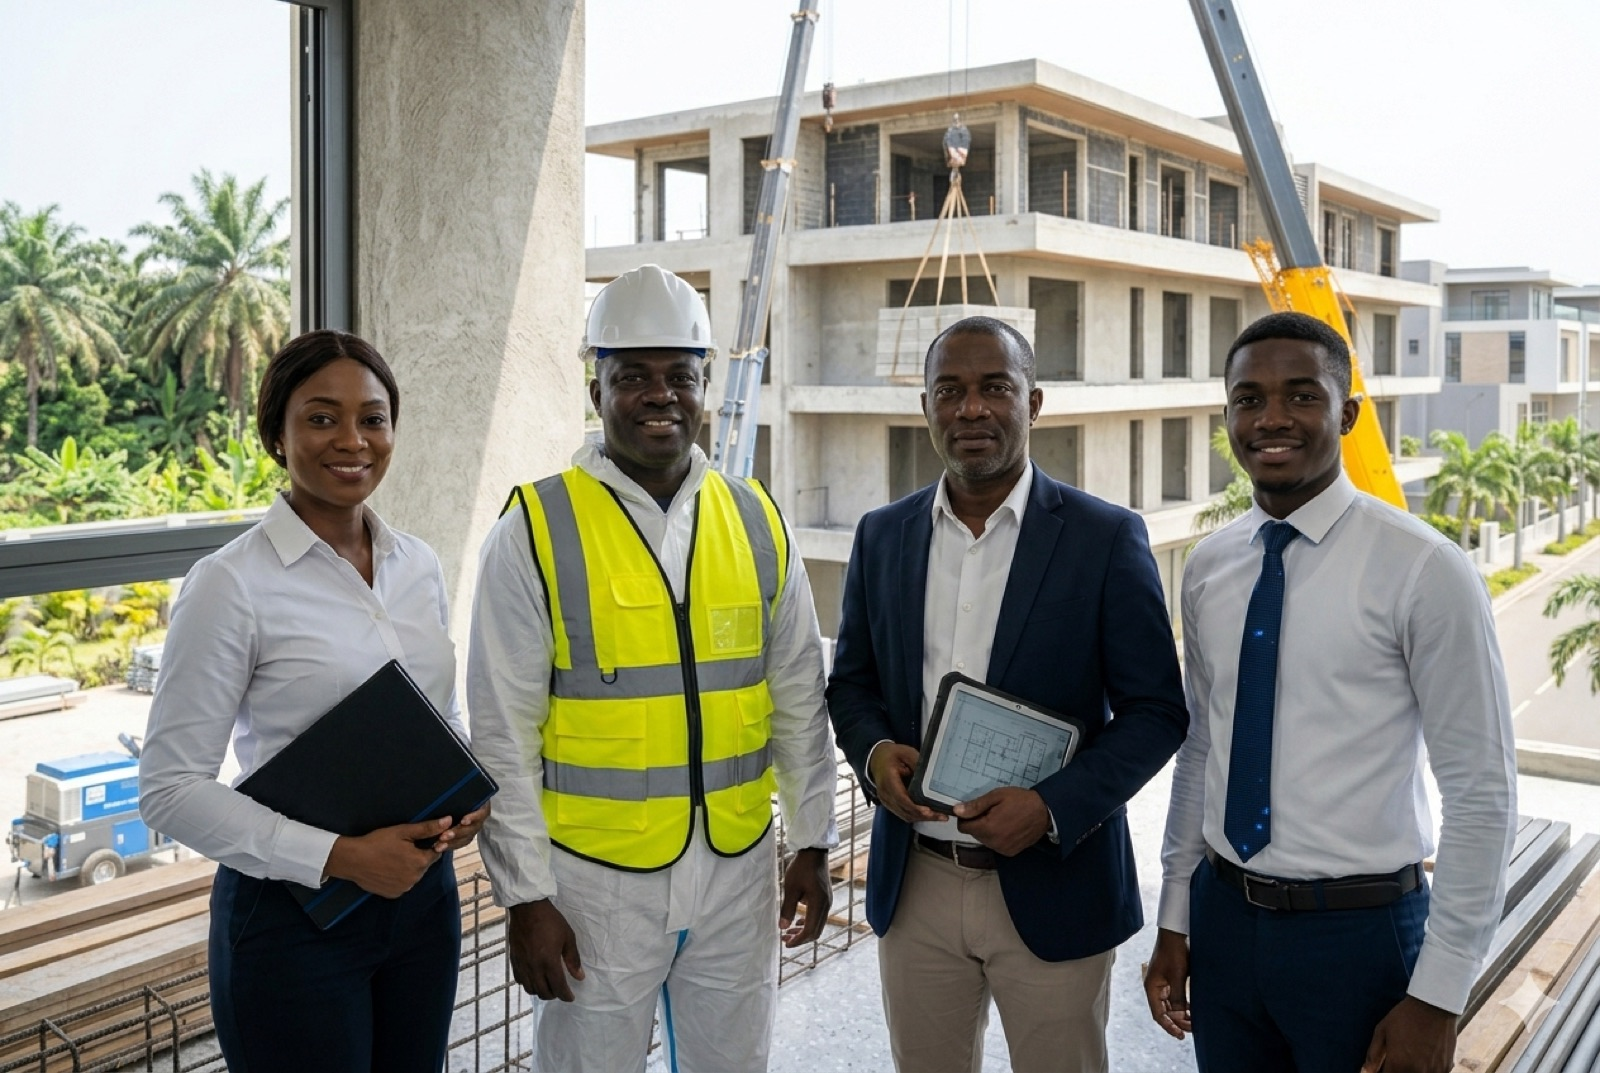
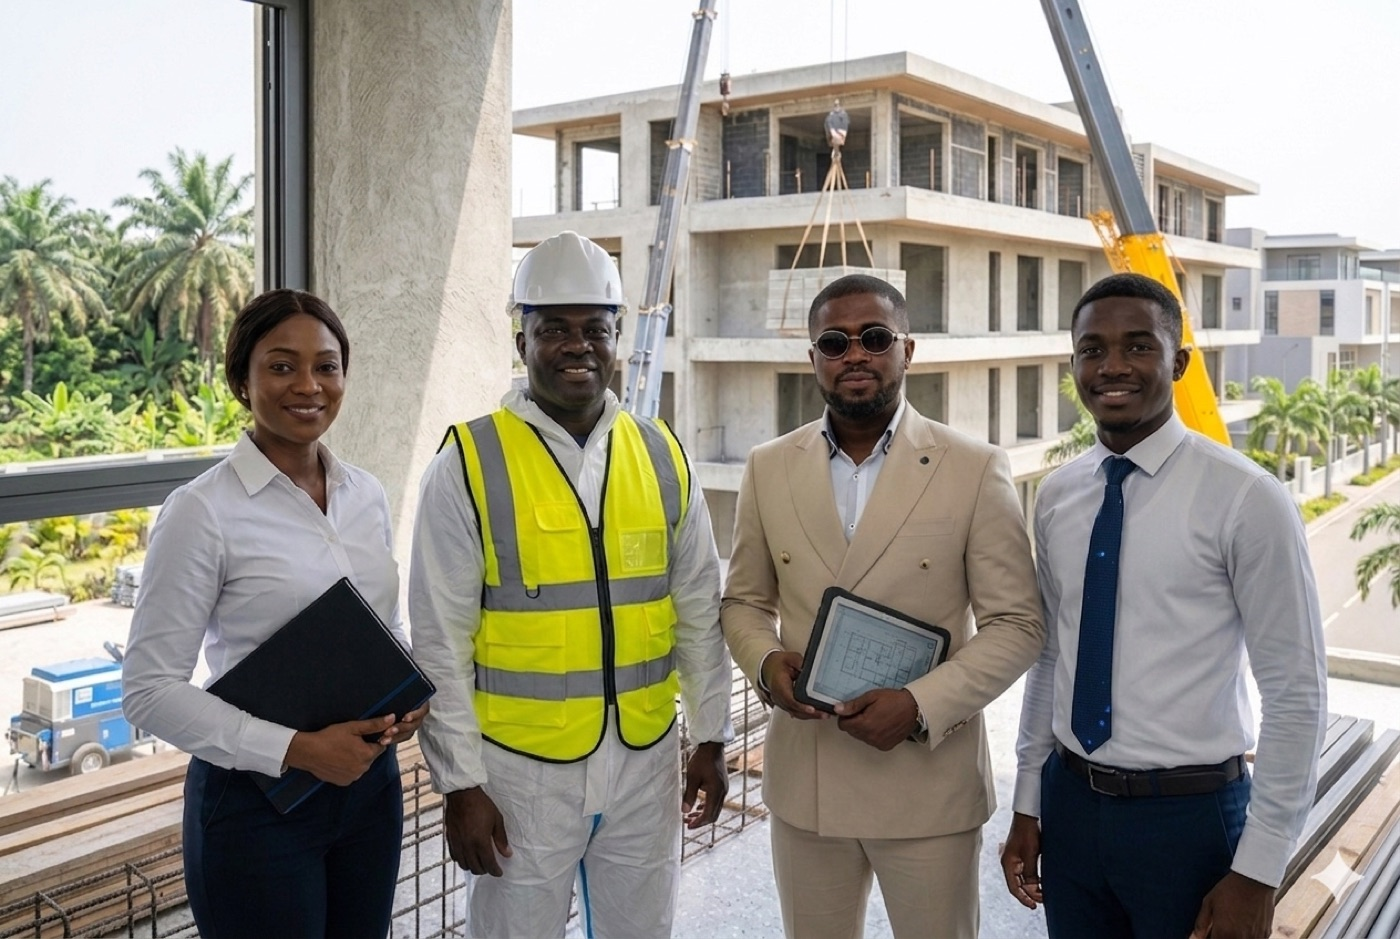
feat(a-propos): remplacement image équipe + alt SEO enrichi
- Remplacement de equipe-portrait-chantier.jpg par la nouvelle photo
  d'équipe BTP (architecte, chef de chantier, directeur de projet,
  conducteur de travaux) sur chantier livré
- Alt text enrichi SEO : "Équipe TMA Holding sur chantier de
  construction haut de gamme en Côte d'Ivoire"
- Ajout width/height intrinsèques + decoding="async" pour éviter le
  layout shift
- Aspect-[4/5] + shadow-premium + overlay "Depuis 2015" conservés

Changed region(s): [[0.4914, 0.278, 0.7679, 1.0], [0.9521, 0.9265, 0.9829, 0.9574], [0.0614, 0.9883, 0.0921, 1.0]]

diff --git a/app/a-propos/page.jsx b/app/a-propos/page.jsx
@@ -88,7 +88,15 @@ export default function AboutPage() {
           </div>
           <div className="relative">
             <div className="aspect-[4/5] rounded-3xl overflow-hidden shadow-premium">
-              <img src={IMG.equipe} alt="Équipe TMA Holding" className="h-full w-full object-cover" loading="lazy" />
+              <img
+                src={IMG.equipe}
+                alt="Équipe TMA Holding sur chantier de construction haut de gamme en Côte d'Ivoire"
+                className="h-full w-full object-cover object-center"
+                loading="lazy"
+                decoding="async"
+                width={1400}
+                height={1750}
+              />
             </div>
             <div className="absolute -bottom-6 -left-6 rounded-2xl bg-tma-night text-white p-6 shadow-2xl max-w-xs">
               <p className="text-tma-electric-200 text-xs font-semibold tracking-[0.2em] uppercase mb-2">
